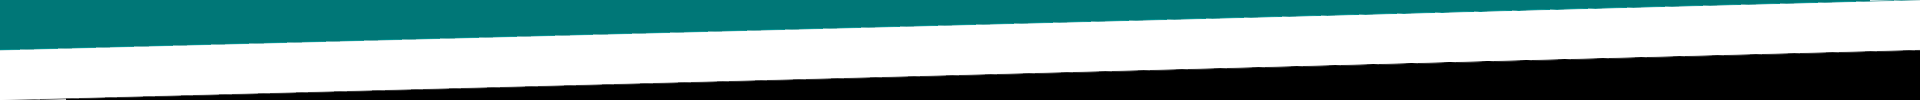
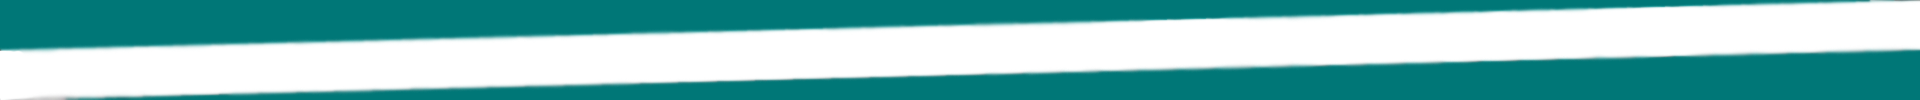
#33: step 2

diff --git a/app/assets/stylesheets/categories.scss b/app/assets/stylesheets/categories.scss
@@ -1,32 +1,34 @@
 // Place all the styles related to the Categories controller here.
 // They will automatically be included in application.css.
 // You can use Sass (SCSS) here: http://sass-lang.com/
-table.table.post {
-  background-color: white;
-  margin-bottom: 0;
-  text-align: center;
-  td.no-border {border: 0;}
-  th.title {
-    font-size: 2rem;
-    text-align: center;
-    border: 0;
-  }
-  td.time {
-    font-size: 1rem;
-    color: blue;
-    padding: 0;
-  }
-  td.text {
-      height:72px;
-      max-height: 72px;
-    }
-  td.body {
-    text-align: justify;
-    font-size: 1.5rem;
-  }
+.div-round-plus {
+  background: url(circle.png);
+  background-position: 50% 50%;
+  background-size: contain;
+  background-repeat: no-repeat;
+  padding: 50px;
+  margin-top: 30px;
+}
+
+.div-round {
+  background: url(circle.png);
+  background-position: 50% 0%;
+  background-size: contain;
+  background-repeat: no-repeat;
+  padding: 50px;
+  margin-top: 20px;
+}
+
+.text-center {
+  margin-top: 5px;
+  font-weight: bold;
+  font-size: 1.75rem;
+  margin-bottom: 5px;
 }
 
 .plus {
+  margin-left: auto;
+  margin-right: auto;
   background: url(plus.png);
   width: 168px;
   height: 168px;
@@ -43,137 +45,4 @@ table.table.post {
   background-size: contain;
   background-repeat: no-repeat;
   background-position: 50% 50%;
-}
-
-.svg-block {
-  width: 100%;
-  height: 100%;
-}
-
-.margin-bottom {
-  margin-bottom: 20px;
-}
-
-.read {
-  fill: white;
-  transition: all 1s;
-  text {
-    fill: black;
-  }
-  &:hover {
-    fill: purple;
-    text {
-      fill: white;
-    }
-  }
-}
-
-.red {
-  color: red;
-  &:hover{
-    color: red;
-  }
-  &:focus {
-    color: red;
-    &:focus:hover {
-    color: red;
-    }
-  }
-  &:active:focus {
-    color: red;
-  }
-}
-
-.blue {
-  color: blue;
-  &:hover{
-    color: blue;
-  }
-  &:focus {
-    color: blue;
-    &:focus:hover {
-    color: blue;
-    }
-  }
-  &:active:focus {
-    color: blue;
-  }
-}
-
-.green {
-  color: green;
-  &:hover{
-    color: green;
-  }
-  &:focus {
-    color: green;
-    &:focus:hover {
-    color: green;
-    }
-  }
-  &:active:focus {
-    color: green;
-  }
-}
-
-a.list-group-item.active {
-  background-color: #5cb85c;
-  border-color: #5cb85c;
-  &:hover{
-    background-color: #5cb85c;
-    border-color: #5cb85c;
-  }
-}
-
-.btn:focus {
-  outline: 0px;
-  &:hover{
-    outline: 0px;
-  }
-  &:active{
-    outline: 0px;
-  }
-}
-
-.icon {
-  border: 0;
-  background-color: transparent;
-  transition: all 0.5s;
-  text-decoration: none;
-  vertical-align: middle;
-  line-height: 6px;
-}
-.icon:hover {
-  transform: scale(1.5, 1.5);
-  background-color: transparent;
-}
-.icon:focus:hover {
-  background-color: transparent;
-}
-.icon:active {
-  background-color: transparent;
-}
-.icon:active:focus {
-  background-color: transparent;
-  box-shadow: none;
-}
-
-.icon:active:hover {
-  background-color: transparent;
-}
-
-.icon:focus {
-  background-color: transparent;
-}
-
-.float-right {
-  float: right;
-}
-
-#svg-container {
-  width: 100%;
-  height: 36px;
-}
-.form-group {
-  width: 97.5%;
 }

diff --git a/app/assets/stylesheets/scaffolds.scss b/app/assets/stylesheets/scaffolds.scss
@@ -1,12 +1,12 @@
 header {
-  background-color: #202020;
+  background-color: #005858;
   padding-top: 0px;
   padding-bottom: 0px;
 }
 
 body {
   background-image: url(math_background.png);
-  color: #333;
+  color: #FF7400;
   font-family: verdana, arial, helvetica, sans-serif;
   font-size: 13px;
   line-height: 18px;
@@ -16,12 +16,12 @@ body {
 }
 
 main {
-  background-color: black;
+  background-color: #277676;
 }
 
 footer {
-  color: red;
-  background-color: #202020;
+  color: #9F5C24;
+  background-color: #005858;
 }
 
 p, ol, ul, td {
@@ -38,12 +38,11 @@ pre {
 }
 
 a {
-  color: red;
+  color: #FF8724;
   transition: color 1s;
-
   background-color: none;
   &:hover {
-    color: purple;
+    color: #FF943B;
     text-decoration: none;
     }
 }
@@ -112,12 +111,12 @@ text {
     font-size: 13px;
     font-weight: 600;
     line-height: 20px;
-    color: red;
+    color: #9F5C24;
     transition: color 1s;
 }
 
 .header-nav-link:hover{
-  color: purple;
+  color: #FF8F32;
   text-decoration: none;
 }
 
@@ -150,8 +149,45 @@ text {
 .no-padding{
   padding: 0;
 }
+
 .bg-white{
   background-color: white;
+}
+
+.icon {
+  border: 0;
+  background-color: transparent;
+  transition: all 0.5s;
+  text-decoration: none;
+  vertical-align: middle;
+  line-height: 6px;
+}
+.icon:hover {
+  transform: scale(1.5, 1.5);
+  background-color: transparent;
+}
+.icon:focus:hover {
+  background-color: transparent;
+}
+.icon:active {
+  background-color: transparent;
+}
+.icon:active:focus {
+  background-color: transparent;
+  box-shadow: none;
+}
+
+.icon:active:hover {
+  background-color: transparent;
+}
+
+.icon:focus {
+  background-color: transparent;
+}
+
+.alert {
+  clear: both;
+  margin: 10px;
 }
 
 #notice {

diff --git a/app/assets/stylesheets/posts.scss b/app/assets/stylesheets/posts.scss
@@ -135,37 +135,6 @@ a.list-group-item.active {
   }
 }
 
-.icon {
-  border: 0;
-  background-color: transparent;
-  transition: all 0.5s;
-  text-decoration: none;
-  vertical-align: middle;
-  line-height: 6px;
-}
-.icon:hover {
-  transform: scale(1.5, 1.5);
-  background-color: transparent;
-}
-.icon:focus:hover {
-  background-color: transparent;
-}
-.icon:active {
-  background-color: transparent;
-}
-.icon:active:focus {
-  background-color: transparent;
-  box-shadow: none;
-}
-
-.icon:active:hover {
-  background-color: transparent;
-}
-
-.icon:focus {
-  background-color: transparent;
-}
-
 .float-right {
   float: right;
 }
